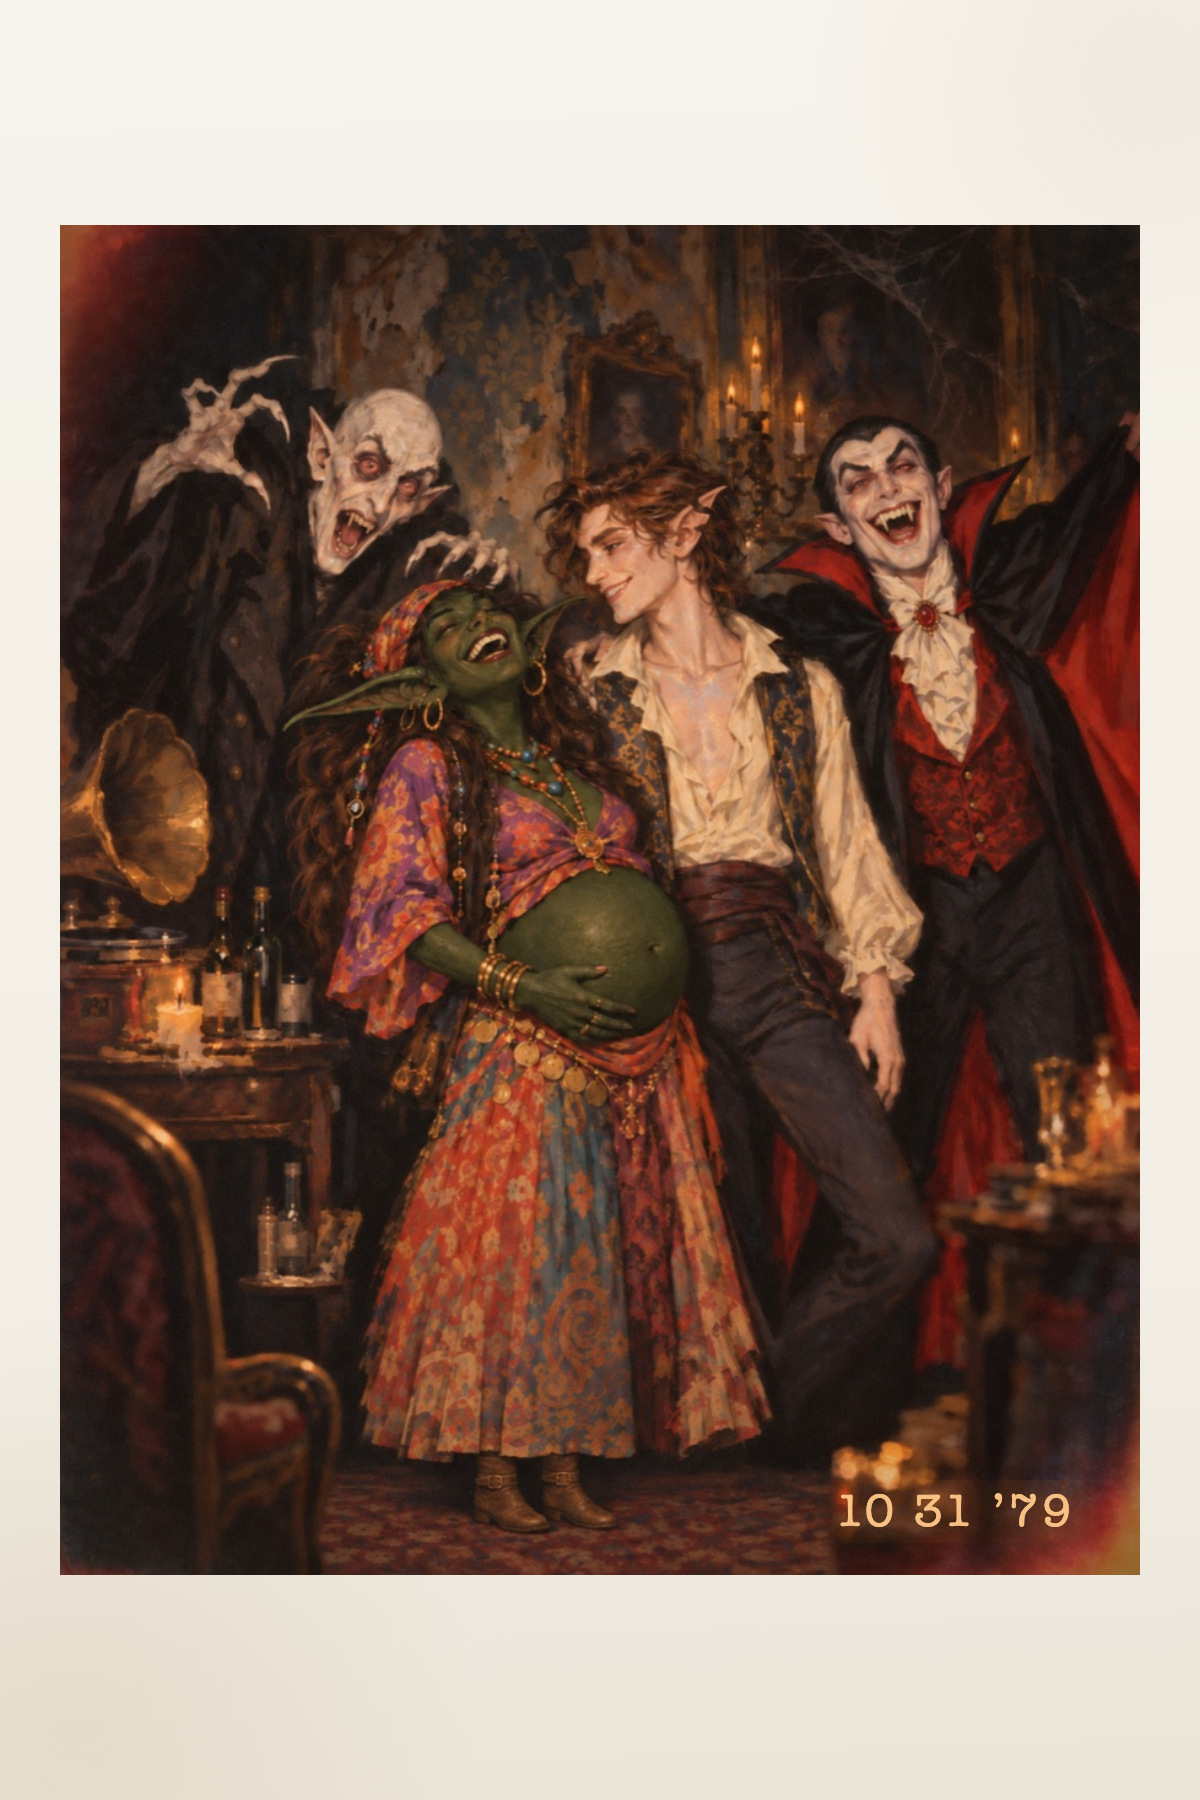
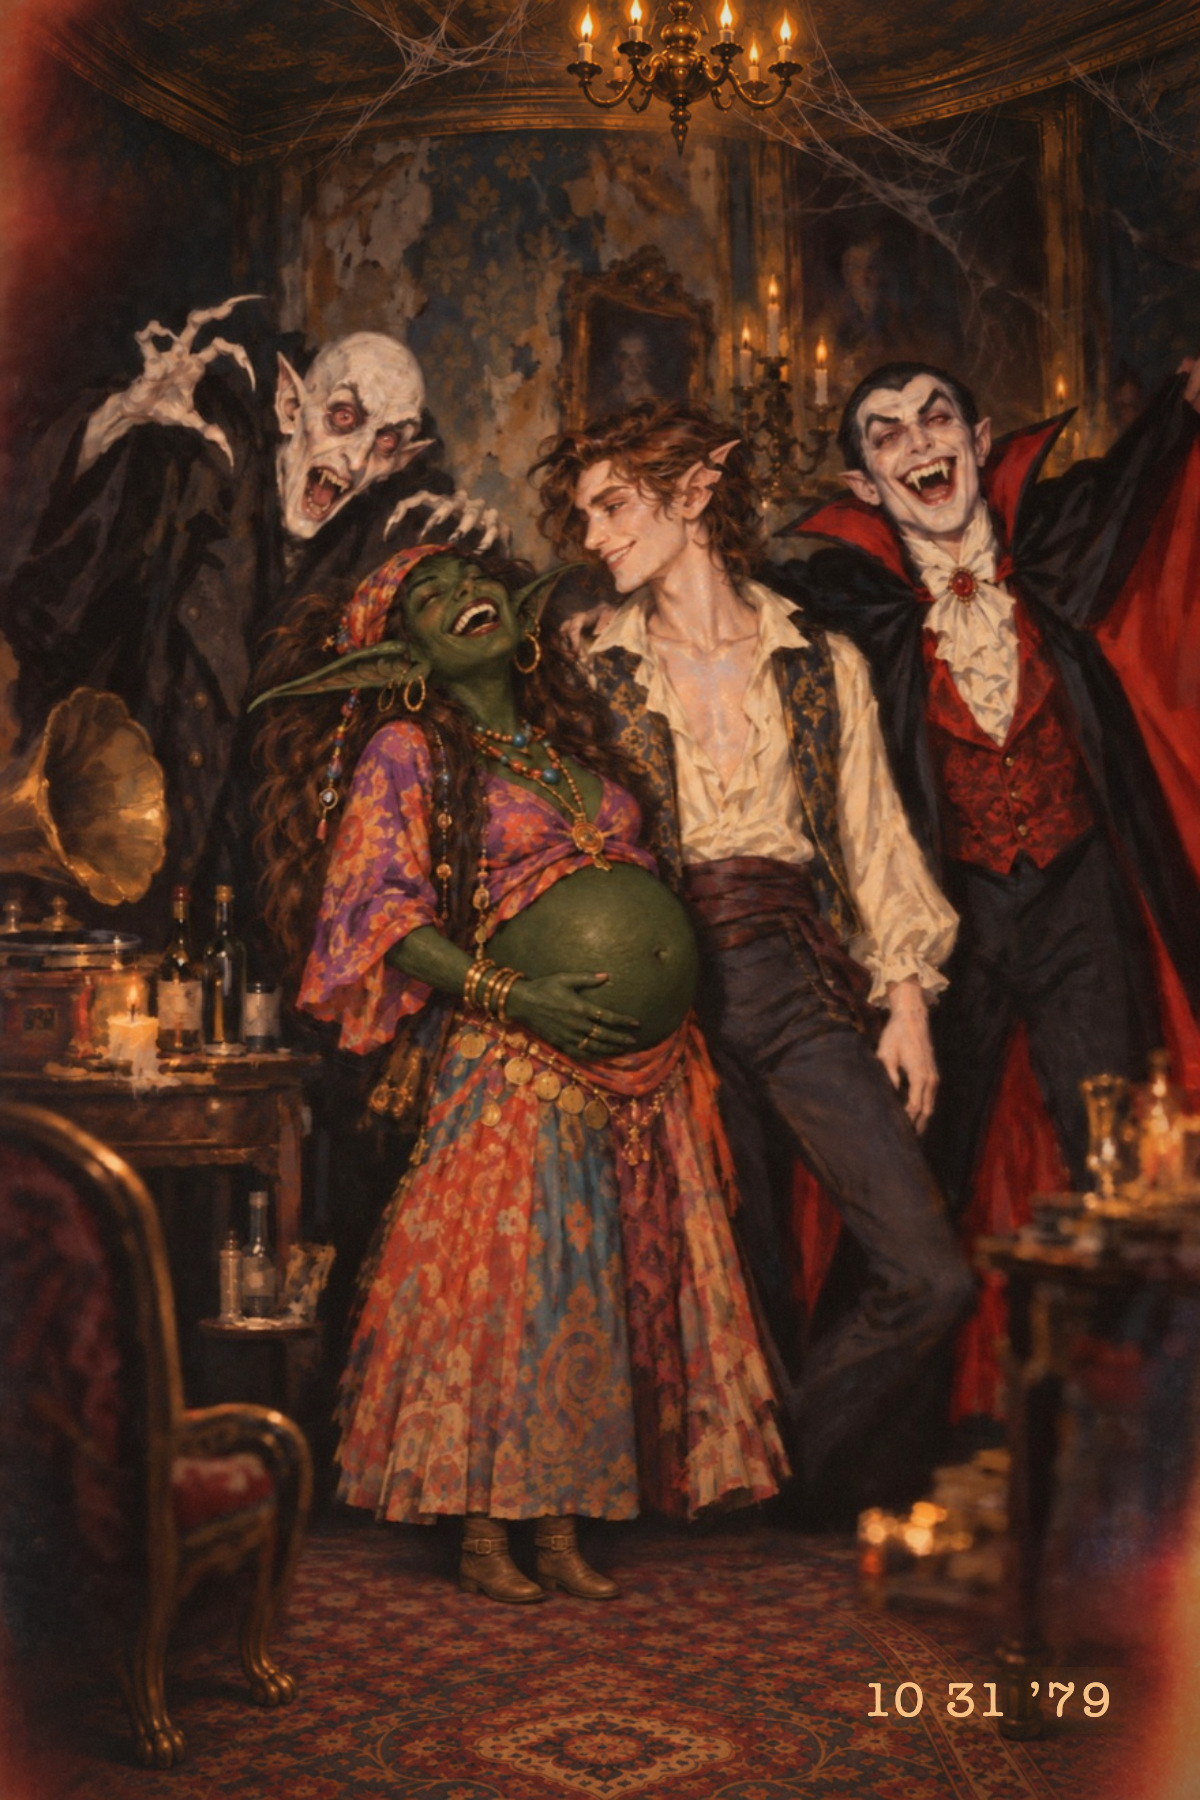
Photo print is full bleed: the painting outpainted to 2:3 with Codex, figures untouched; drop the piggy-bank tick

diff --git a/print/photo-4x6.html b/print/photo-4x6.html
@@ -14,33 +14,23 @@
      Two vampires mugging, a pregnant goblin laughing, and a fae
      with no fangs."
 
-     The painting (assets/photograph.jpg, 4:5) is shown whole,
-     never cropped, inside the white border.
+     Full bleed, no border. assets/photograph-2x3.jpg is the painting
+     (assets/photograph.jpg, 4:5) outpainted to 2:3 with Codex: more
+     ceiling above, more floor below, the four figures untouched. The
+     date stamp sits ~0.25in in from the corner so a print trim can't
+     reach it.
 
      ⚠ THE YEAR IS A GUESS. Bix is an early-to-mid-20s super senior
      in 2004, born ~9 months after the cart broke down, so the
      stamp says '79. Search DATESTAMP to change it. The looks in the
      painting are NOT CANON YET (see CANON.md).
      ============================================================ */
-  html,body{margin:0;padding:0;width:1200px;height:1800px;overflow:hidden;background:#f5f2ea}
-  .print{
-    position:relative; width:1200px; height:1800px;
-    /* the white border of a 1979 drugstore print, a little warm with age */
-    background:linear-gradient(178deg,#f7f4ed 0%,#f2eee5 70%,#ebe5d9 100%);
-  }
-  .print:after{
-    content:""; position:absolute; inset:0; pointer-events:none;
-    background:
-      radial-gradient(circle at 6% 96%, rgba(150,116,58,.10) 0%, transparent 20%),
-      radial-gradient(circle at 95% 4%, rgba(150,116,58,.08) 0%, transparent 16%);
-  }
-  /* 1080×1350 = the painting's 4:5, centred: 60px (0.2in) sides, 225px top and bottom */
-  svg{position:absolute; left:60px; top:225px; width:1080px; height:1350px; display:block}
+  html,body{margin:0;padding:0;width:1200px;height:1800px;overflow:hidden;background:#0a0810}
+  svg{position:absolute; left:0; top:0; width:1200px; height:1800px; display:block}
 </style>
 </head>
 <body>
-<div class="print">
-  <svg viewBox="0 0 400 500" xmlns="http://www.w3.org/2000/svg" aria-hidden="true">
+  <svg viewBox="0 0 400 600" xmlns="http://www.w3.org/2000/svg" aria-hidden="true">
     <defs>
       <filter id="grain">
         <feTurbulence type="fractalNoise" baseFrequency="1.1" numOctaves="3" seed="7"/>
@@ -56,22 +46,21 @@
 
     <!-- L→R: ORLOK, GOBLINENON (pregnant, laughing, brown boots),
          EDWARD (looking at her, notched ear, NO FANGS), DRACULA -->
-    <image href="assets/photograph.jpg" width="400" height="500" preserveAspectRatio="xMidYMid meet"/>
+    <image href="assets/photograph-2x3.jpg" width="400" height="600" preserveAspectRatio="xMidYMid slice"/>
 
     <!-- 1979 film grade, kept light so the painting survives it -->
-    <rect width="400" height="500" fill="#c47a2e" opacity=".06" style="mix-blend-mode:overlay"/>
-    <rect width="400" height="500" fill="url(#vig)"/>
-    <rect width="400" height="500" filter="url(#grain)" opacity=".30"/>
+    <rect width="400" height="600" fill="#c47a2e" opacity=".06" style="mix-blend-mode:overlay"/>
+    <rect width="400" height="600" fill="url(#vig)"/>
+    <rect width="400" height="600" filter="url(#grain)" opacity=".30"/>
 
     <!-- DATESTAMP — orange, burned into the corner by the camera -->
-    <text x="376" y="482" text-anchor="end"
-          font-family="'American Typewriter',Courier,monospace" font-size="17"
+    <text x="372" y="572" text-anchor="end"
+          font-family="'American Typewriter',Courier,monospace" font-size="16"
           fill="#ff8a2b" opacity=".82" letter-spacing="1.5"
           style="filter:url(#glow)">10 31 &rsquo;79</text>
-    <text x="376" y="482" text-anchor="end"
-          font-family="'American Typewriter',Courier,monospace" font-size="17"
+    <text x="372" y="572" text-anchor="end"
+          font-family="'American Typewriter',Courier,monospace" font-size="16"
           fill="#ffc98a" opacity=".95" letter-spacing="1.5">10 31 &rsquo;79</text>
   </svg>
-</div>
 </body>
 </html>

diff --git a/run/index.html b/run/index.html
@@ -495,8 +495,7 @@ const SCENES = [
     {g:"Print &amp; props", items:[
       {id:"print", t:"<b>Print run picked up and cut</b>: invites &times;6, backstory cards, Russ's card, the badge, the concert tickets, the deed, the Articles of Settlement, the survey, Orlok's ledger, Yobo's two secret cards."},
       {id:"photo", t:"<b>The photograph</b>: a Staples 4&times;6 photo print of <code>print/photo-4x6.jpg</code>, glossy or lustre. Same-day at most stores."},
-      {id:"usb", t:"<b>USB stick</b> labelled <code>MARCUS_HALE</code>."},
-      {id:"piggy", t:"<b>The goat piggy bank</b> for Simone, if bought."}]},
+      {id:"usb", t:"<b>USB stick</b> labelled <code>MARCUS_HALE</code>."}]},
     {g:"DM bag", items:[
       {id:"sticky", t:"<b>Sticky note</b> <code>Fluffy123</code>, handwritten."},
       {id:"willow", t:"<b>The wishing willow</b>, handmade, with its slip."},
@@ -971,7 +970,7 @@ const SCENES = [
     "They type as the killer, and he comes apart &mdash; until <i>&ldquo;youre not typing like him.&rdquo;</i> &#128275;",
     "His story: lured, chased, soul-caged when <b>Poe Boy</b> shut the door. &#128275; He names him, short of murder.",
     "The bag: &#9995; <b>the willow</b> to Simone &#128275;, then &#9995; <b>the USB</b> &mdash; it mounts as <code>MARCUS_HALE</code> &#128275; and he sends the recording.",
-    "Second ask: <i>can you get me out of here.</i> The goat joins the chat; the price is the piggy bank. &#128275; Play the price at the table."
+    "Second ask: <i>can you get me out of here.</i> The goat joins the chat; the price is her piggy bank. &#128275; Narrate the smash; there's no physical bank."
   ],
   ends:"on 3AM: every speaker in the house comes on at once.",
   stuck:"Password: the sticky note. If they never found it, it's tucked in the monitor bezel. Any capitalisation works, unlimited tries.",

diff --git a/print/index.html b/print/index.html
@@ -132,9 +132,9 @@
       <dt>Size</dt><dd>4 × 6</dd>
       <dt>Finish</dt><dd>Glossy or lustre</dd>
       <dt>Prints</dt><dd>1</dd>
-      <dt>Crop</dt><dd>None needed: the file is exactly 4×6 at 300dpi. If the site offers “fit” vs “fill”, either works; the white border takes any trim.</dd>
+      <dt>Crop</dt><dd>None needed: the file is exactly 4×6 at 300dpi, full bleed. If the site offers “fit” vs “fill”, choose <b>fill</b> (no white border). A printer may trim a sliver off the edges; the date stamp and the four figures sit clear of it.</dd>
     </dl>
-    <p class="small">A 1979 snapshot: the painting inside a white border, with the film grade and the orange <code>10 31 '79</code> date stamp baked in. No back side. Bix gets it in the party room.</p>
+    <p class="small">A 1979 snapshot, full bleed: the painting edge to edge, with the film grade and the orange <code>10 31 '79</code> date stamp baked in. The painting was extended top and bottom to fit 4×6, so nobody is cropped. No back side. Bix gets it in the party room.</p>
     <div class="gallery" data-set="photo" data-label="Photo"></div>
   </div>
 

diff --git a/print/build.py b/print/build.py
@@ -12,7 +12,7 @@ Output (in print/):
     1-cardstock.pdf     everything on cardstock (Yobo's two secret cards last), one upload, one copy
     3-deed.pdf          the deed, on its own: cream or parchment cardstock
     4-plain.pdf         plain or ivory paper: the site assessment, the Articles of Settlement, Orlok's ledger
-    photo-4x6.jpg       the party-room photograph as a Staples 4x6 photo print (1200x1800, 300dpi)
+    photo-4x6.jpg       the party-room photograph, full bleed, as a Staples 4x6 photo print (1200x1800, 300dpi)
     previews/           a JPEG (or PNG) of every page, shown on print/index.html
 
 Needs Google Chrome (headless, for print-to-PDF and the photo screenshot), pypdf and ImageMagick. Each prop's own

diff --git a/README.md b/README.md
@@ -58,7 +58,7 @@ Sunday's three rooms run in any order and are all paper. Item 2 opens AIM with t
 | Invite | `invite/` | Anonymous VIP early entry, 7PM sharp, at Dood Mansion — it never names the host; homemade and clip-arty. |
 | Settlement | `print/src/settlement.html` (print only) | The 1931 contract from the strongbox in the study, with the Dood wax seal. Two drunk men signed away a mansion over $11.40, and **the only paragraph on the page with no corrections in it is the one that vests title in the bearer of the deed.** |
 | Deed | `print/src/deed.html` (print only) | The 1931 deed to Dood Mansion, with the Dood wax seal. Uncle Vinny has carried it since the night he won the house and hands it to Gnomey in the ending scene. **Print it at Staples** — it's Gnomey's physical prop. |
-| Photograph | `print/photo-4x6.jpg` | **Print only.** A 1979 snapshot from the party room — two vampires mugging, a pregnant goblin laughing, and a fae with no fangs — inside a white border, with the orange `10 31 '79` date stamp. A Staples 4×6 photo print; no back side. Bix's beat: hand Will the print and say nothing. |
+| Photograph | `print/photo-4x6.jpg` | **Print only.** A 1979 snapshot from the party room — two vampires mugging, a pregnant goblin laughing, and a fae with no fangs — full bleed, with the orange `10 31 '79` date stamp. A Staples 4×6 photo print; no back side. Bix's beat: hand Will the print and say nothing. |
 | Tickets | `print/src/tickets.html` (print only) | Two 2004 Ticketmaster-style concert tickets to **Total Party Kill**, bought under **LIVINGSWORTH III / UPTON M** — what Poe Boy's mother hands Simone in the ending scene. Playing the Transyltown Armory, Sat Jun 25 2005 — every field is filled in and editable on the page. |
 | Backstory cards | `backstory/` | One 5×7 reminder card per PC — what each character remembers going in, and nothing they don't know yet — plus a shared Transyltown card. Hand them out before play. |
 | Ledger | `ledger/` | **Print only at the table.** Orlok's register of patients: one printed page, found on the lectern in the cellar. It shows the clinic and points at the Sun's-mercy. The web page is the DM's copy, with a short DM brief under it. |
